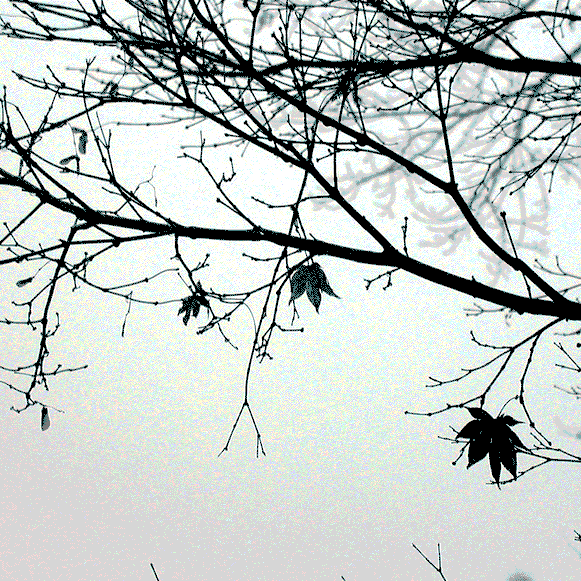
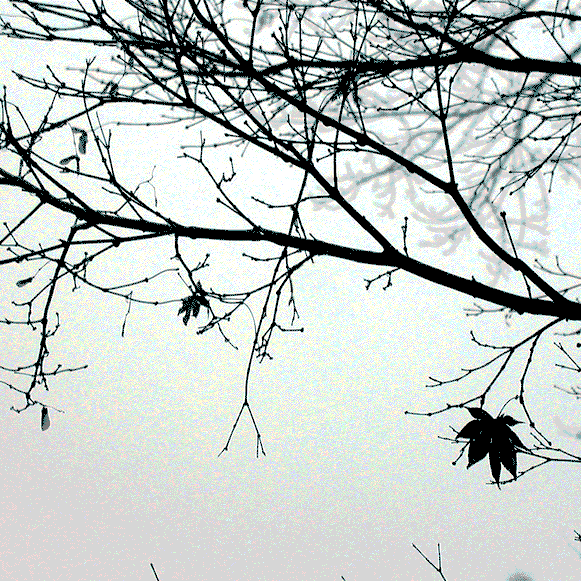
too tired to finish this

Changed region(s): [[0.4957, 0.4337, 0.6196, 0.5577]]

diff --git a/gatherings/forest/43noticing.p.html b/gatherings/forest/43noticing.p.html
@@ -1,23 +1,104 @@
 <style>
-  .Chewables {
+  .Leaf {
     position: absolute;
-    top: 0;
-    left: 0;
-    width: 100%;
-    height: 100%;
+    top: 44.5%;
+    left: 49.7%;
+    cursor: pointer;
   }
 </style>
 
 <body>
   <img class="background" src="./images/43.png">
+  <img id="leaf" class="Leaf" src="./images/43-quiet-leaf.png">
 
-  <d-iframe
-      id="relish"
-      class="Chewables"
-      src="../../games/relish/game.html#dot"
-      autoload>
-  </d-iframe>
-
+  <!-- hotpots -->
   <a class="hotspot move" href="./42narrowing.html"
     style="left: 0%; bottom: 0%; width: 14%; height: 14%;"></a>
+
+  <!-- dialogs -->
+  <a-dumpling id="notice-dialog" temperament="phlegmatic" hidden x=25 y=40 width=16 height=20>
+    <div class="Dialog">
+      <p class="Dialog-text">it doesn't sound like anything</p>
+    </div>
+  </a-dumpling>
+
+  <a-dumpling id="nice-dialog" temperament="phlegmatic" hidden x=30 y=45 width=16 height=20>
+    <div class="Dialog">
+      <p class="Dialog-text">which is kind of nice</p>
+    </div>
+  </a-dumpling>
+
+  <a-dumpling id="quiet-leaf" temperament="choleric" no-close hidden x=110 y=38>
+    <img src="./images/quiet-leaf.png">
+  </a-dumpling>
 </body>
+
+<script type="module">
+  import { kInventory } from "./inventory.js"
+
+  // -- props --
+  let mStep = 0
+
+  // -- p/el
+  const $mLeaf = document.getElementById("leaf")
+  const $mItem = document.getElementById("quiet-leaf")
+
+  // -- lifetime --
+  async function main() {
+    if (d.State.didGetLeaf) {
+      complete()
+      return
+    }
+
+    $mLeaf.addEventListener("click", didClickLeaf)
+
+    // so the dumpling doesn't overwrite our styles
+    await frame()
+    $mItem.style.width = "min-content"
+    $mItem.style.height = "min-content"
+  }
+
+  // -- commands --
+  function notice() {
+    Frames.show("notice-dialog")
+    mStep = 1
+  }
+
+  function acknowledge() {
+    Frames.show("nice-dialog")
+    mStep = 2
+  }
+
+  function loot() {
+    kInventory.add({ el: $mItem })
+    $mItem.show()
+
+    d.State.didGetLeaf = true
+    complete()
+  }
+
+  function complete() {
+    $mLeaf.remove()
+    mStep = 3
+  }
+
+  // -- events --
+  function didClickLeaf() {
+    switch (mStep) {
+    case 0:
+      notice(); break
+    case 1:
+      acknowledge(); break
+    case 2:
+      loot(); break
+    }
+  }
+
+  // -- utils --
+  function frame() {
+    return new Promise(requestAnimationFrame)
+  }
+
+  // -- bootstrap --
+  main()
+</script>

diff --git a/gatherings/forest/42narrowing.p.html b/gatherings/forest/42narrowing.p.html
@@ -37,13 +37,13 @@
   <!-- dialogs -->
   <a-dumpling id="ouch-dialog" temperament="phlegmatic" hidden x=20 y=50 width=16 height=20>
     <div class="Dialog">
-        <p class="Dialog-text">some gloves would be nice...</p>
+      <p class="Dialog-text">some gloves would be nice...</p>
     </div>
   </a-dumpling>
 
   <a-dumpling id="wait-dialog" temperament="phlegmatic" hidden x=25 y=20 width=16 height=20>
     <div class="Dialog">
-        <p class="Dialog-text">you can't quite make out what it is</p>
+      <p class="Dialog-text">you can't quite make out what it is</p>
     </div>
   </a-dumpling>
 </body>
